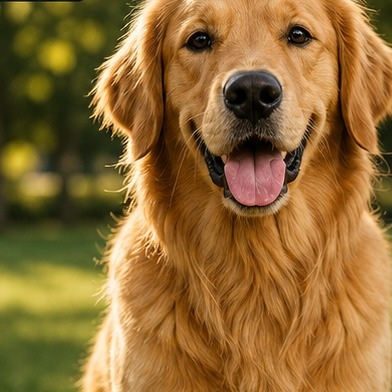
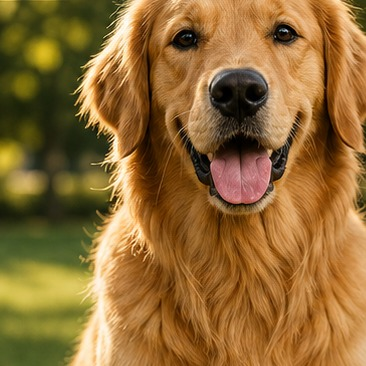
fix(site): wordmark 'rm.background local' (solo el punto en color) + reencuadre del antes/después
- Marca: rm + background en blanco, '.' en violeta, 'local' separado y atenuado
- Recorte del perro centrado para que llene mejor el marco del slider

diff --git a/site/index.html b/site/index.html
@@ -3,11 +3,11 @@
 <head>
 <meta charset="UTF-8" />
 <meta name="viewport" content="width=device-width, initial-scale=1.0" />
-<title>rm.backgroundlocal — Quitá fondos sin subir nada a internet</title>
+<title>rm.background local — Quitá fondos sin subir nada a internet</title>
 <meta name="description" content="Quitá el fondo de tus imágenes 100% local y privado. Sin internet, sin nube, sin cuentas, sin API. Web + Desktop, open source." />
 
 <!-- Open Graph -->
-<meta property="og:title" content="rm.backgroundlocal — Quitá fondos sin subir nada a internet" />
+<meta property="og:title" content="rm.background local — Quitá fondos sin subir nada a internet" />
 <meta property="og:description" content="Remoción de fondos 100% local y privada. Sin nube, sin cuentas, sin API. Open source." />
 <meta property="og:type" content="website" />
 <meta property="og:image" content="./assets/promo-quita-fondos.png" />
@@ -36,7 +36,7 @@
 <header class="nav" id="nav">
   <a class="brand" href="#top" aria-label="rm.backgroundlocal inicio">
     <img src="./assets/logo.png" alt="" class="brand-logo" />
-    <span class="brand-name"><b>rm.</b>backgroundlocal</span>
+    <span class="brand-name">rm<span class="wm-dot">.</span>background<span class="wm-local"> local</span></span>
   </a>
   <nav class="nav-links">
     <a href="#privacidad">Privacidad</a>
@@ -262,7 +262,7 @@
 <footer class="footer">
   <div class="foot-brand">
     <img src="./assets/logo.png" alt="" />
-    <span><b>rm.</b>backgroundlocal</span>
+    <span class="wm">rm<span class="wm-dot">.</span>background<span class="wm-local"> local</span></span>
   </div>
   <div class="foot-links">
     <a href="https://github.com/tecnomanu/remove-background-local" target="_blank" rel="noopener">GitHub</a>

diff --git a/site/styles.css b/site/styles.css
@@ -54,7 +54,9 @@ code, .term-type, .codeblock code { font-family: "JetBrains Mono", ui-monospace,
 .nav-wrap { position: sticky; top: 0; z-index: 50; }
 .brand { display: flex; align-items: center; gap: 10px; font-weight: 600; letter-spacing: -0.01em; }
 .brand-logo { width: 34px; height: 34px; border-radius: 9px; }
-.brand-name b { color: var(--accent); }
+.brand-name { font-weight: 700; }
+.wm-dot { color: var(--accent); }
+.wm-local { color: var(--text-dim); font-weight: 400; }
 .nav-links { display: flex; gap: 26px; margin-left: auto; font-size: 14px; }
 .nav-links a { color: var(--text-dim); transition: color 0.2s; }
 .nav-links a:hover { color: var(--text); }
@@ -186,7 +188,9 @@ code, .term-type, .codeblock code { font-family: "JetBrains Mono", ui-monospace,
 .footer { max-width: var(--max); margin: 0 auto; padding: 40px 24px 60px; border-top: 1px solid var(--border); display: flex; flex-wrap: wrap; align-items: center; gap: 16px 28px; }
 .foot-brand { display: flex; align-items: center; gap: 10px; font-size: 14px; }
 .foot-brand img { width: 28px; height: 28px; border-radius: 8px; }
-.foot-brand b { color: var(--accent); }
+.foot-brand .wm { font-weight: 700; }
+.foot-brand .wm-dot { color: var(--accent); }
+.foot-brand .wm-local { color: var(--text-dim); font-weight: 400; }
 .foot-links { display: flex; gap: 22px; font-size: 14px; }
 .foot-links a { color: var(--text-dim); } .foot-links a:hover { color: var(--text); }
 .foot-note { flex: 1 1 100%; color: var(--text-dim); font-size: 12.5px; margin: 8px 0 0; }